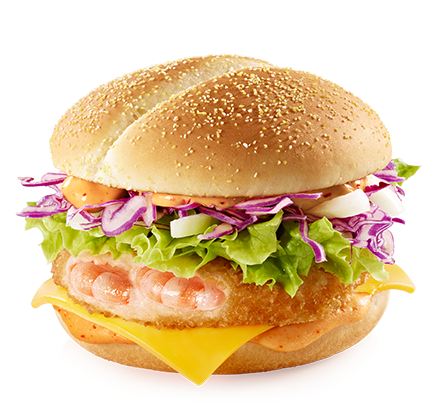
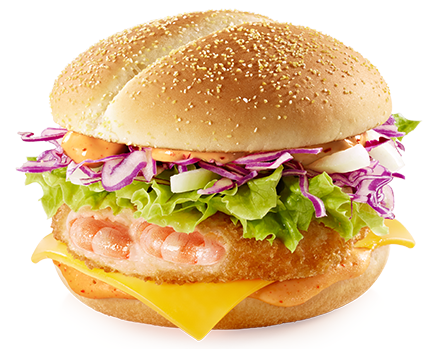
slider js functionality

diff --git a/css/layout/main.css b/css/layout/main.css
@@ -979,7 +979,7 @@ table {
 
 .burgers__list {
   display: flex;
-  justify-content: center;
+  justify-content: flex-start;
   align-items: center;
   overflow: hidden;
   position: relative;
@@ -1018,17 +1018,21 @@ table {
   display: flex;
   align-items: center;
   margin-right: 1.25rem;
+  padding-top: 5rem;
+  padding-bottom: 4.375rem;
 }
 @media screen and (max-width: 768px) {
   .burgers__picture {
     width: 72%;
     margin-right: 0;
     margin-bottom: 25px;
+    padding-bottom: 0;
   }
 }
 @media screen and (max-width: 480px) {
   .burgers__picture {
     width: 100%;
+    padding-top: 0;
   }
 }
 
@@ -1082,7 +1086,7 @@ table {
 .burgers__kkal {
   position: absolute;
   left: 0;
-  bottom: -4.375rem;
+  bottom: 0;
   width: 60px;
   font-family: "Gagalin";
   text-align: center;
@@ -1090,7 +1094,7 @@ table {
 }
 @media screen and (max-width: 768px) {
   .burgers__kkal {
-    top: -5rem;
+    top: 0;
     left: auto;
     right: 2.8125rem;
   }
@@ -1119,7 +1123,7 @@ table {
 
 .burgers__composition {
   position: absolute;
-  top: -5rem;
+  top: 0;
   left: 0;
   display: flex;
   flex-direction: column;
@@ -1158,7 +1162,7 @@ table {
 .burgers__dropout {
   padding: 1.25rem;
   position: absolute;
-  top: -5rem;
+  top: 0;
   width: 16.875rem;
   background-color: rgba(255, 255, 255, 0.9);
   opacity: 0.9;

diff --git a/css/blocks/_burgers.scss b/css/blocks/_burgers.scss
@@ -22,7 +22,7 @@
 
 .burgers__list {
     display: flex;
-    justify-content: center;
+    justify-content: flex-start;
     align-items: center;
     overflow: hidden;
 
@@ -42,10 +42,6 @@
     height: 100%;
     width: 100%;
 
-    // &--visible {
-    //     display: flex;
-    // }
-
     @include tablets {
         flex-direction: column;
     }
@@ -63,15 +59,19 @@
     display: flex;
     align-items: center;
     margin-right: rem(20px);
+    padding-top: rem(80px);
+    padding-bottom: rem(70px);
 
     @include tablets {
         width: 72%;
         margin-right: 0;
         margin-bottom: 25px;
+        padding-bottom: 0;
     }
 
     @include phones {
         width: 100%;
+        padding-top: 0;
     }
 }
 
@@ -124,7 +124,7 @@
 .burgers__kkal {
     position: absolute;
     left: 0;
-    bottom: rem(-70px);
+    bottom: 0;
 
     width: 60px;
 
@@ -133,7 +133,7 @@
     opacity: 0.5;
 
     @include tablets {
-        top: rem(-80px);
+        top: 0;
         left: auto;
         right: rem(45px);
     }
@@ -162,7 +162,7 @@
 
 .burgers__composition {
     position: absolute;
-    top: rem(-80px);
+    top: 0;
     left: 0;
 
     display: flex;
@@ -202,7 +202,7 @@
 .burgers__dropout {
     padding: rem(20px);
     position: absolute;
-    top: rem(-80px);
+    top: 0;
 
     width: rem(270px);
 
